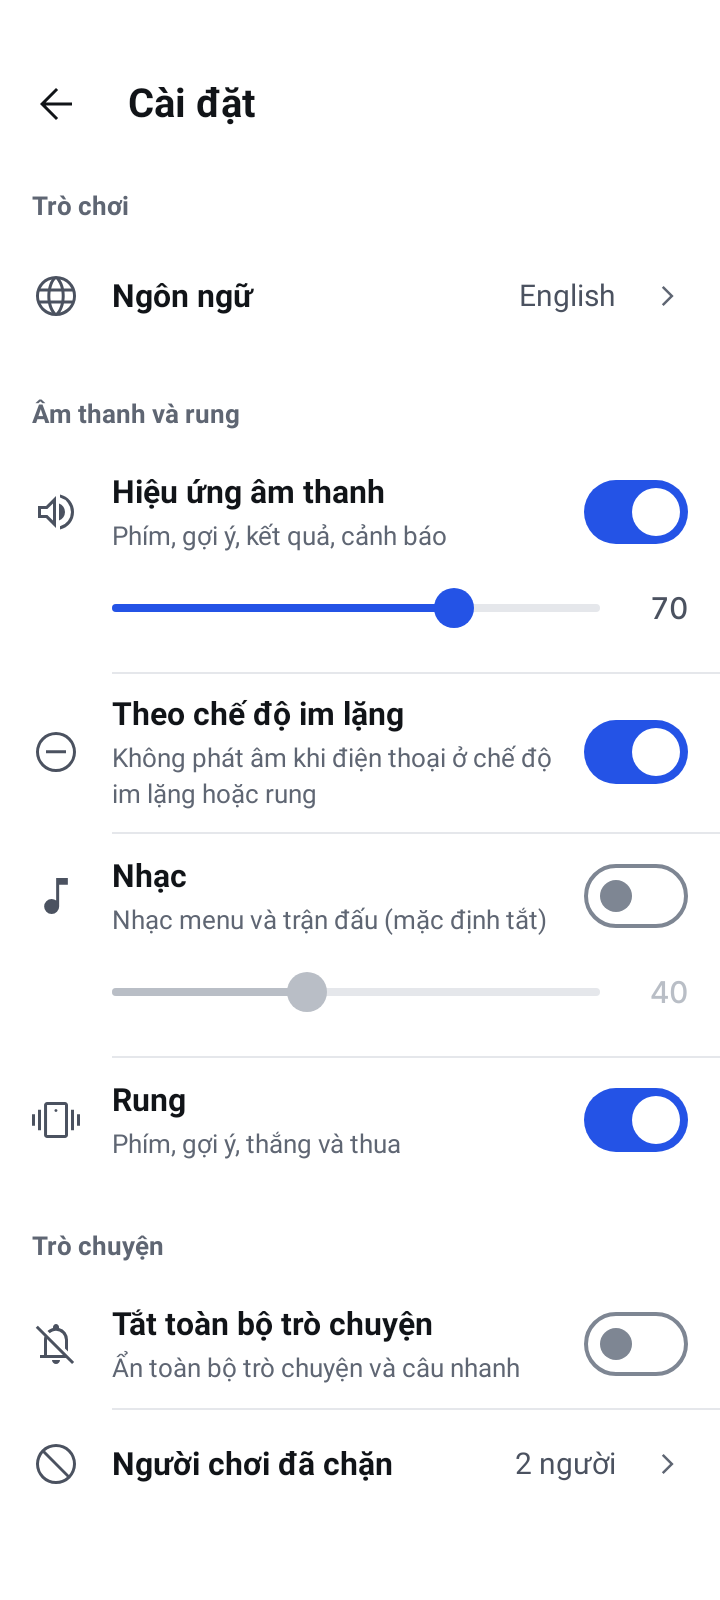
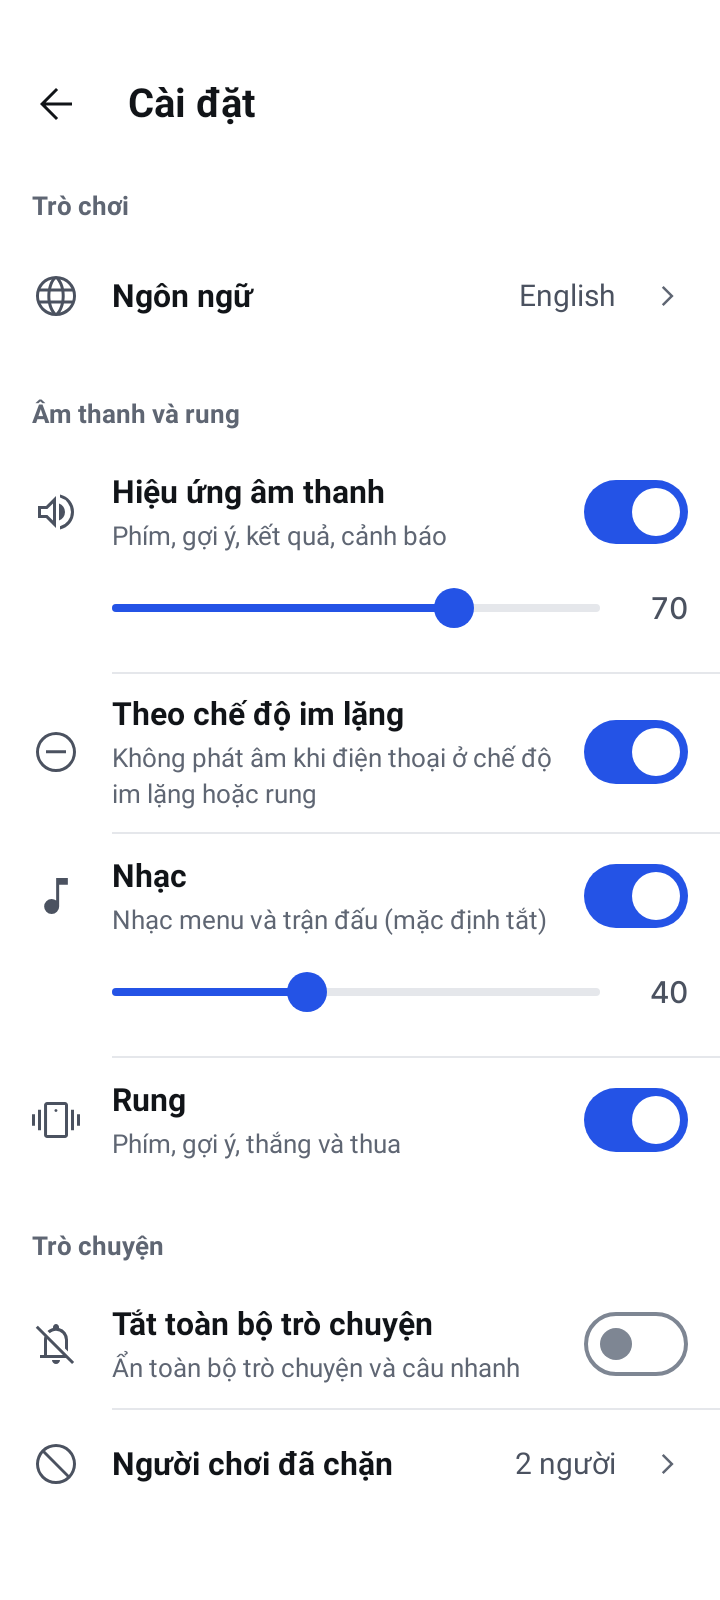
Number Baseball: music on by default (owner decision); debug builds get a demo remove-ads purchase
Release builds keep Google Play Billing (src/release factory); the sideloaded
debug APK uses a demo gateway so the owner can try the purchase flow.

Claude-Session: https://claude.ai/code/session_013CZbVP3uQhTZu6sPw4fNAf

Changed region(s): [[0.1528, 0.5938, 0.4583, 0.6562], [0.7944, 0.5312, 0.9472, 0.625]]

diff --git a/number-baseball-app/android/app/src/debug/kotlin/app/numbaseball/billing/BillingGatewayFactory.kt b/number-baseball-app/android/app/src/debug/kotlin/app/numbaseball/billing/BillingGatewayFactory.kt
@@ -1,0 +1,44 @@
+package app.numbaseball.billing
+
+import android.app.Activity
+import android.content.Context
+import kotlinx.coroutines.CoroutineScope
+import kotlinx.coroutines.Dispatchers
+import kotlinx.coroutines.SupervisorJob
+import kotlinx.coroutines.delay
+import kotlinx.coroutines.flow.Flow
+import kotlinx.coroutines.flow.MutableSharedFlow
+import kotlinx.coroutines.launch
+
+/**
+ * DEBUG BUILDS ONLY: a sideloaded test APK is not known to Google Play, so real billing cannot sell `remove_ads`.
+ * This demo gateway lets the owner try the whole flow (price, purchase, ads disappearing, restore). Release builds use
+ * [PlayBillingGateway] (see src/release). Clearing the app's data "refunds" the demo purchase.
+ */
+fun createBillingGateway(context: Context): BillingGateway = DemoBillingGateway()
+
+private class DemoBillingGateway : BillingGateway {
+    private val scope = CoroutineScope(SupervisorJob() + Dispatchers.Default)
+    private val flow = MutableSharedFlow<PurchaseUpdate>(replay = 0, extraBufferCapacity = 4)
+    private var owned: PlayPurchase? = null
+    override val updates: Flow<PurchaseUpdate> = flow
+    override val isReady: Boolean = true
+
+    override suspend fun connect(): BillingStatus = BillingStatus.OK
+    override suspend fun queryProduct(): Pair<BillingStatus, String?> = BillingStatus.OK to "US$4.99 (TEST)"
+    override suspend fun queryPurchases(): Pair<BillingStatus, List<PlayPurchase>> = BillingStatus.OK to listOfNotNull(owned)
+    override suspend fun acknowledge(purchase: PlayPurchase): BillingStatus {
+        owned = PlayPurchase(purchase.products, purchase.state, true, purchase.token)
+        return BillingStatus.OK
+    }
+
+    override fun launchPurchase(activity: Activity): BillingStatus {
+        scope.launch {
+            delay(800) // stands in for Play's purchase sheet
+            val p = PlayPurchase(listOf(REMOVE_ADS_PRODUCT_ID), PlayPurchaseState.PURCHASED, false, "demo")
+            owned = p
+            flow.emit(PurchaseUpdate(BillingStatus.OK, listOf(p)))
+        }
+        return BillingStatus.OK
+    }
+}

diff --git a/number-baseball-app/android/app/src/test/kotlin/app/numbaseball/audio/AudioGateTest.kt b/number-baseball-app/android/app/src/test/kotlin/app/numbaseball/audio/AudioGateTest.kt
@@ -36,8 +36,10 @@ class AudioGateTest {
         assertFalse(effects(settings = defaults.copy(effectsEnabled = false)))
     }
 
-    @Test fun musicIsOffByDefault() {
-        assertFalse(AudioGate.musicAllowed(defaults, foreground = true, audioMode = AudioManager.MODE_NORMAL))
+    @Test fun musicIsOnByDefaultButFollowsSilentMode() {
+        // Owner decision 2026-11-26: the calm music is on by default; silent/vibrate mode still mutes it.
+        assertTrue(AudioGate.musicAllowed(defaults, foreground = true, audioMode = AudioManager.MODE_NORMAL))
+        assertFalse(AudioGate.musicAllowed(defaults, foreground = true, audioMode = AudioManager.MODE_NORMAL, ringerMode = AudioManager.RINGER_MODE_SILENT))
         val on = defaults.copy(musicEnabled = true)
         assertTrue(AudioGate.musicAllowed(on, foreground = true, audioMode = AudioManager.MODE_NORMAL))
         assertFalse(AudioGate.musicAllowed(on, foreground = false, audioMode = AudioManager.MODE_NORMAL))

diff --git a/number-baseball-app/android/app/src/main/kotlin/app/numbaseball/AppContainer.kt b/number-baseball-app/android/app/src/main/kotlin/app/numbaseball/AppContainer.kt
@@ -160,7 +160,7 @@ class DefaultAppContainer(context: Context, override val config: AppConfig) : Ap
     }
 
     override val billing: BillingRepository by lazy {
-        DefaultBillingRepository(PlayBillingGateway(appContext), DataStoreEntitlementStore(appContext), appScope)
+        DefaultBillingRepository(app.numbaseball.billing.createBillingGateway(appContext), DataStoreEntitlementStore(appContext), appScope)
     }
 
     override val network: NetworkMonitor by lazy { AndroidNetworkMonitor(appContext) }

diff --git a/number-baseball-app/android/app/src/main/kotlin/app/numbaseball/data/settings/SettingsRepository.kt b/number-baseball-app/android/app/src/main/kotlin/app/numbaseball/data/settings/SettingsRepository.kt
@@ -18,7 +18,7 @@ import kotlinx.coroutines.flow.map
 data class AppSettings(
     val effectsEnabled: Boolean = true,
     val effectsVolume: Float = 0.7f,
-    val musicEnabled: Boolean = false,
+    val musicEnabled: Boolean = true, // owner decision 2026-11-26: calm music on by default (still muted by "Follow silent mode")
     val musicVolume: Float = 0.4f,
     val followSilentMode: Boolean = true,
     val hapticsEnabled: Boolean = true,

diff --git a/number-baseball-app/android/app/src/release/kotlin/app/numbaseball/billing/BillingGatewayFactory.kt b/number-baseball-app/android/app/src/release/kotlin/app/numbaseball/billing/BillingGatewayFactory.kt
@@ -1,0 +1,6 @@
+package app.numbaseball.billing
+
+import android.content.Context
+
+/** Release builds always use Google Play Billing. (Debug builds use a demo gateway, see src/debug.) */
+fun createBillingGateway(context: Context): BillingGateway = PlayBillingGateway(context)

diff --git a/number-baseball-app/README.md b/number-baseball-app/README.md
@@ -22,8 +22,8 @@ These are fixed for v1. Change them here first if the team agrees on something e
 
 ### Sound (owner request 2026-11-21)
 - **Sound effects**: keypad, sending a guess, the hint reveal (distinct for strike, ball and out), solving, win / lose / draw, match found, round timer warning, chat message, UI navigation. Short, crisp, ballpark-flavoured, never cartoonish.
-- **Music**: one calm menu loop and one low-key match loop, off by default.
-- Defaults keep the "quiet quick match" spirit: effects **on**, but muted automatically while the phone is in silent or vibrate mode (setting "Follow silent mode", on by default); music off. Separate volume for effects and music, plus haptics on/off.
+- **Music**: one calm menu loop and one low-key match loop, on by default (owner decision 2026-11-26).
+- Defaults: effects **on** and the calm music **on** (owner decision 2026-11-26, music volume 40 %), both muted automatically while the phone is in silent or vibrate mode (setting "Follow silent mode", on by default). Separate volume for effects and music, plus haptics on/off.
 - Audio focus: pause music and stop effects when another app takes focus, when the app goes to the background, or during calls. Ads stay muted.
 - All audio is made in-house (synthesized) so licensing is clean; OGG Vorbis, loudness-normalized.
 
